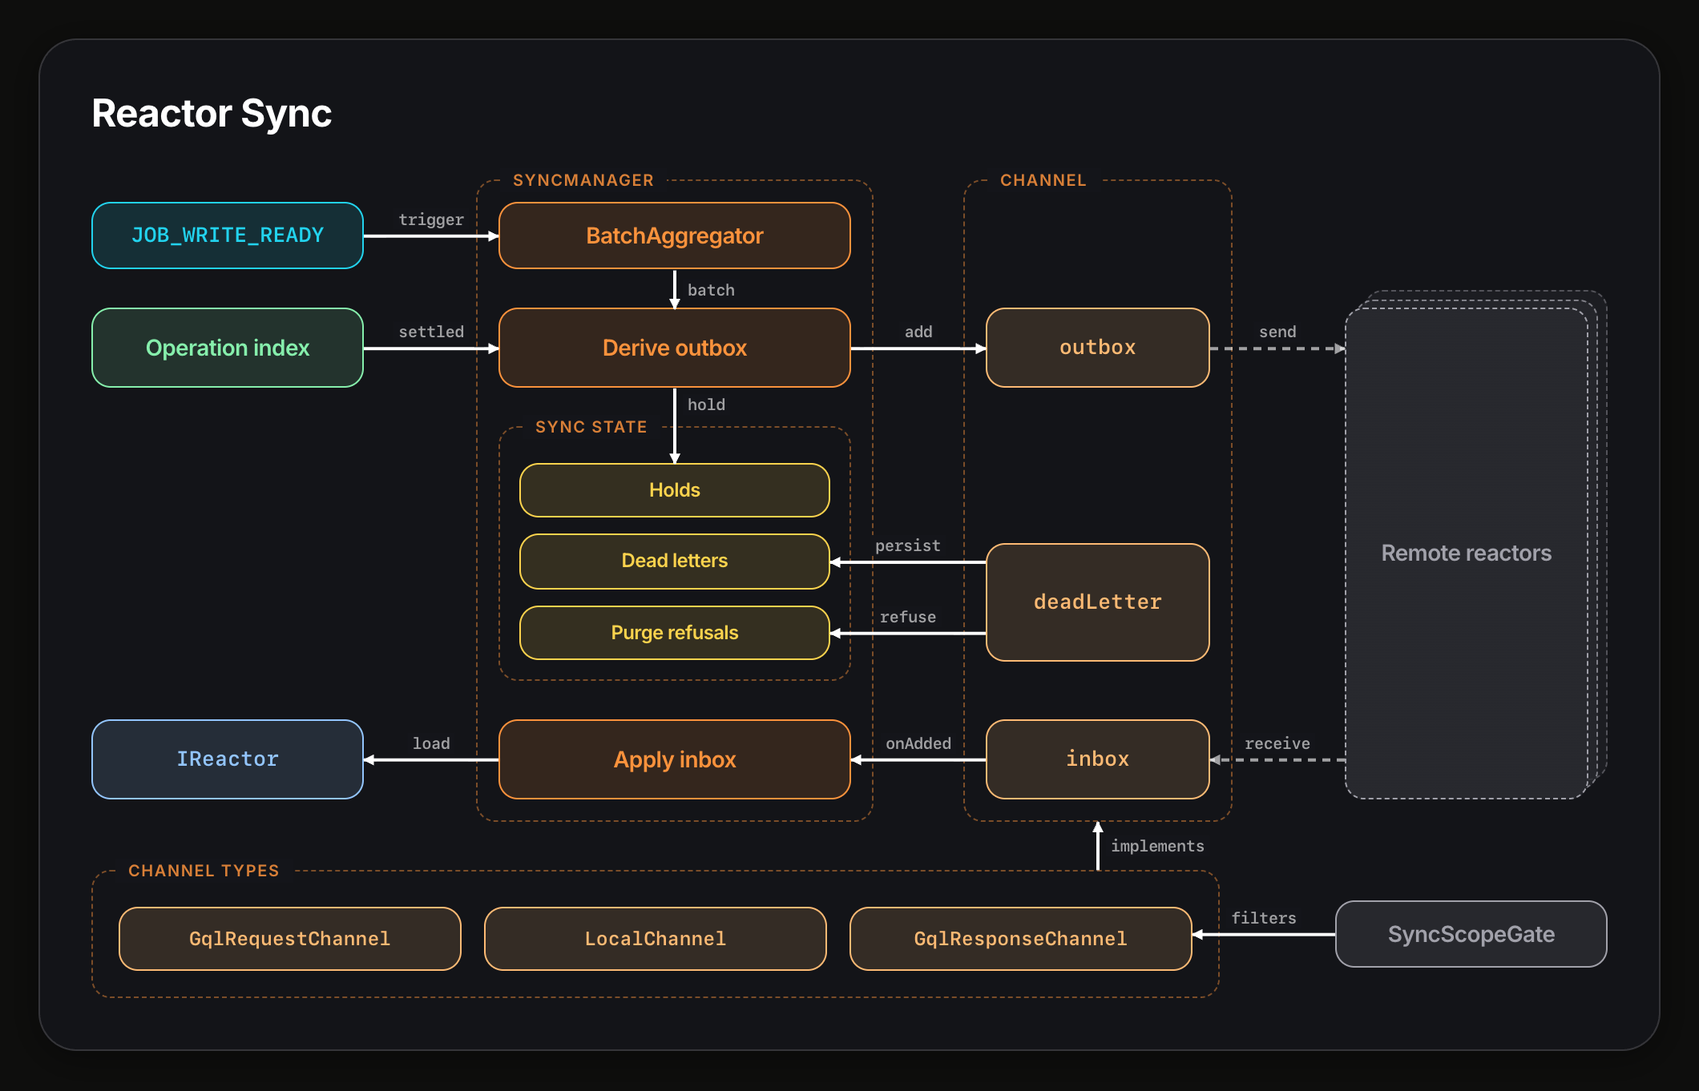
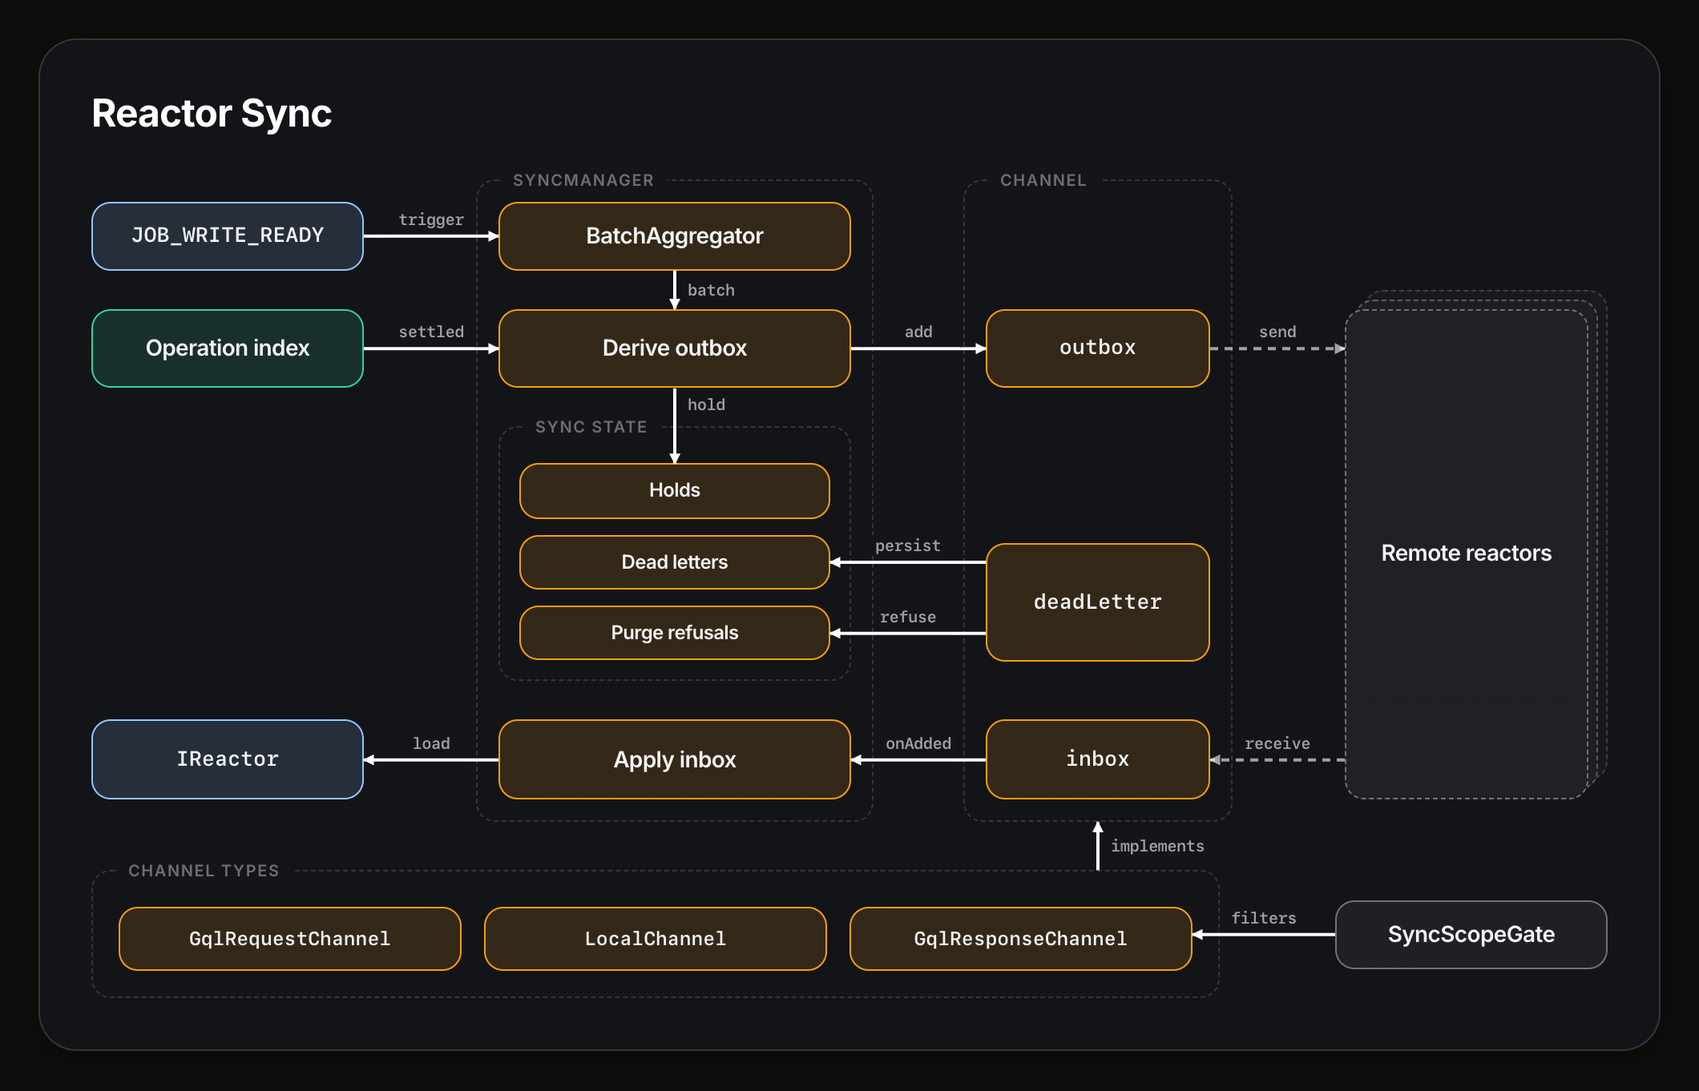
reactor diagrams: one colour per group, near-white text
Replace the family shades with seven fixed families (client,
reactor-core, write, read, sync, storage, external), each a single
border and faint fill laid over the card surface so stacked and
standalone boxes match. Every box in a group shares its family, box
text is near-white everywhere, and group frames are neutral again.

diff --git a/pages/reactor-components.html b/pages/reactor-components.html
@@ -260,10 +260,10 @@
       <div class="card-body">
         <div id="diagram" class="grid">
           <svg class="wires" id="wires"></svg>
-          <div class="grp-client frame-bg client-frame"><span class="group-label">ReactorClient</span></div>
-          <div class="grp-reactor frame-bg reactor-frame"><span class="group-label">Reactor</span></div>
+          <div class="frame-bg client-frame"><span class="group-label">ReactorClient</span></div>
+          <div class="frame-bg reactor-frame"><span class="group-label">Reactor</span></div>
 
-          <div class="box r1 fam-client-strong" id="clientbar" style="grid-column:3 / 8"><div class="box-title mono">IReactorClient</div></div>
+          <div class="box r1 fam-client" id="clientbar" style="grid-column:3 / 8"><div class="box-title mono">IReactorClient</div></div>
 
           <div class="fanout dashed r2 fam-external" id="remote" style="grid-column:1"><div class="box variant fam-external"><div class="box-title">Remote reactors</div></div></div>
           <div class="box r2 fam-client" id="signer" style="grid-column:3"><div class="box-title">Signer</div></div>
@@ -273,51 +273,51 @@
             <div class="box fam-client" id="awaiter"><div class="box-title">JobAwaiter</div></div>
           </div>
 
-          <div class="box r3 fam-reactor-facade" id="reactor" style="grid-column:3 / 8"><div class="box-title mono">IReactor</div></div>
+          <div class="box r3 fam-reactor-core" id="reactor" style="grid-column:3 / 8"><div class="box-title mono">IReactor</div></div>
 
-          <div class="grp-sync group col-stack r4" id="syncgroup" style="grid-column:1">
+          <div class="group col-stack r4" id="syncgroup" style="grid-column:1">
             <span class="group-label">Sync</span>
-            <div class="fanout fam-sync-channel" id="channels"><div class="box fam-sync-channel"><div class="box-title">Channels</div></div></div>
+            <div class="fanout fam-sync" id="channels"><div class="box fam-sync"><div class="box-title">Channels</div></div></div>
             <div class="box fam-sync" id="sync"><div class="box-title">SyncManager</div></div>
           </div>
 
           <div class="group col-stack r4" style="grid-column:3">
             <span class="group-label">Write side</span>
-            <div class="box fam-reactor-proc" id="queue"><div class="box-title">Queue</div></div>
-            <div class="fanout fam-reactor-proc" id="executor"><div class="box fam-reactor-proc"><div class="box-title">Job executors</div></div></div>
+            <div class="box fam-write" id="queue"><div class="box-title">Queue</div></div>
+            <div class="fanout fam-write" id="executor"><div class="box fam-write"><div class="box-title">Job executors</div></div></div>
           </div>
 
-          <div class="box bus r4 fam-reactor-bus" id="bus"><div class="box-title">Event<br>bus</div></div>
+          <div class="box bus r4 fam-reactor-core" id="bus"><div class="box-title">Event<br>bus</div></div>
 
           <div class="group col-stack r4" id="readside" style="grid-column:7">
             <span class="group-label">Read side</span>
             <div class="coord-row">
-              <div class="box fam-reactor-proc" id="coordinator"><div class="box-title">ReadModelCoordinator</div></div>
+              <div class="box fam-read" id="coordinator"><div class="box-title">ReadModelCoordinator</div></div>
               <div></div>
-              <div class="box fam-reactor-proc" id="catchup"><div class="box-title">CatchUpScheduler</div></div>
+              <div class="box fam-read" id="catchup"><div class="box-title">CatchUpScheduler</div></div>
             </div>
             <div class="group phase-group" id="pre">
               <span class="group-label">pre-ready</span>
               <div class="row three">
-                <div class="fanout fam-reactor-model" id="hostrm"><div class="box fam-reactor-model"><div class="box-title">Host read models</div></div></div>
-                <div class="box fam-reactor-model" id="indexer"><div class="box-title">DocumentIndexer</div></div>
-                <div class="box fam-reactor-model" id="docview"><div class="box-title">DocumentView</div></div>
+                <div class="fanout fam-read" id="hostrm"><div class="box fam-read"><div class="box-title">Host read models</div></div></div>
+                <div class="box fam-read" id="indexer"><div class="box-title">DocumentIndexer</div></div>
+                <div class="box fam-read" id="docview"><div class="box-title">DocumentView</div></div>
               </div>
             </div>
             <div class="group phase-group" id="post">
               <span class="group-label">post-ready</span>
               <div class="row two">
-                <div class="box fam-reactor-model" id="subs"><div class="box-title">Subscriptions</div></div>
-                <div class="fanout fam-reactor-model" id="processors"><div class="box fam-reactor-model"><div class="box-title">Processors</div></div></div>
+                <div class="box fam-read" id="subs"><div class="box-title">Subscriptions</div></div>
+                <div class="fanout fam-read" id="processors"><div class="box fam-read"><div class="box-title">Processors</div></div></div>
               </div>
             </div>
           </div>
 
-          <div class="grp-storage group storage r5" id="storage">
+          <div class="group storage r5" id="storage">
             <span class="group-label right">Storage</span>
-            <div class="box fam-storage-index" id="opindex" style="grid-column:1"><div class="box-title">Operation index</div></div>
-            <div class="box fam-storage-store" id="opstore" style="grid-column:3"><div class="box-title">Operation store</div></div>
-            <div class="box fam-storage-cache" id="caches" style="grid-column:5 / 8"><div class="box-title">Caches</div></div>
+            <div class="box fam-storage" id="opindex" style="grid-column:1"><div class="box-title">Operation index</div></div>
+            <div class="box fam-storage" id="opstore" style="grid-column:3"><div class="box-title">Operation store</div></div>
+            <div class="box fam-storage" id="caches" style="grid-column:5 / 8"><div class="box-title">Caches</div></div>
           </div>
         </div>
       </div>

diff --git a/pages/reactor-sync.html b/pages/reactor-sync.html
@@ -206,7 +206,7 @@
       GqlResponseChannel ...... channels/gql-res-channel.ts:23; reactor-api/src/graphql/reactor/resolvers.ts:2214, :1803
       SyncScopeGate · filters . decision/sync-scope-gate.ts:20, :41; reactor-api/src/services/sync-serving-gate.ts:40-48;
                                 applied reactor-api/src/graphql/reactor/resolvers.ts:1754-1767 (never inside packages/reactor)
-                                Coloured external grey: reactor-api applies it outside the reactor, so it is not in the client family
+                                Coloured external: reactor-api applies it outside the reactor
   -->
   <div class="frame">
     <div class="card">
@@ -217,35 +217,35 @@
         <svg class="wires" id="wires"></svg>
         <div class="diagram">
 
-          <div class="grp-sync frame-col" style="grid-column:2"><span class="group-label">SyncManager</span></div>
-          <div class="grp-sync frame-col" id="chan-frame" style="grid-column:3"><span class="group-label">Channel</span></div>
+          <div class="frame-col" style="grid-column:2"><span class="group-label">SyncManager</span></div>
+          <div class="frame-col" id="chan-frame" style="grid-column:3"><span class="group-label">Channel</span></div>
 
-          <div class="box fam-reactor-bus" id="ev" style="grid-column:1;grid-row:1"><div class="box-title mono">JOB_WRITE_READY</div></div>
+          <div class="box fam-reactor-core" id="ev" style="grid-column:1;grid-row:1"><div class="box-title mono">JOB_WRITE_READY</div></div>
           <div class="box fam-sync" id="agg" style="grid-column:2;grid-row:1"><div class="box-title">BatchAggregator</div></div>
 
-          <div class="box fam-storage-index" id="oi" style="grid-column:1;grid-row:2"><div class="box-title">Operation index</div></div>
+          <div class="box fam-storage" id="oi" style="grid-column:1;grid-row:2"><div class="box-title">Operation index</div></div>
           <div class="box fam-sync" id="derive" style="grid-column:2;grid-row:2"><div class="box-title">Derive outbox</div></div>
-          <div class="box mailbox fam-sync-channel" id="outbox" style="grid-column:3;grid-row:2"><div class="box-title mono">outbox</div></div>
+          <div class="box mailbox fam-sync" id="outbox" style="grid-column:3;grid-row:2"><div class="box-title mono">outbox</div></div>
           <div class="fanout dashed fam-external" id="remote" style="grid-column:4;grid-row:2 / 5;margin-top:0"><div class="box variant fam-external"><div class="box-title">Remote reactors</div></div></div>
 
-          <div class="grp-sync group state-grid" id="state" style="grid-column:2;grid-row:3">
+          <div class="group state-grid" id="state" style="grid-column:2;grid-row:3">
             <span class="group-label">Sync state</span>
-            <div class="box fam-sync-state" id="holds"><div class="box-title">Holds</div></div>
-            <div class="box fam-sync-state" id="deadletters"><div class="box-title">Dead letters</div></div>
-            <div class="box fam-sync-state" id="refusals"><div class="box-title">Purge refusals</div></div>
+            <div class="box fam-sync" id="holds"><div class="box-title">Holds</div></div>
+            <div class="box fam-sync" id="deadletters"><div class="box-title">Dead letters</div></div>
+            <div class="box fam-sync" id="refusals"><div class="box-title">Purge refusals</div></div>
           </div>
-          <div class="box mailbox fam-sync-channel" id="dead" style="grid-column:3;grid-row:3;align-self:end;margin-bottom:12px;height:74px"><div class="box-title mono">deadLetter</div></div>
+          <div class="box mailbox fam-sync" id="dead" style="grid-column:3;grid-row:3;align-self:end;margin-bottom:12px;height:74px"><div class="box-title mono">deadLetter</div></div>
 
-          <div class="box fam-reactor-facade" id="reactor" style="grid-column:1;grid-row:4"><div class="box-title mono">IReactor</div></div>
+          <div class="box fam-reactor-core" id="reactor" style="grid-column:1;grid-row:4"><div class="box-title mono">IReactor</div></div>
           <div class="box fam-sync" id="apply" style="grid-column:2;grid-row:4"><div class="box-title">Apply inbox</div></div>
-          <div class="box mailbox fam-sync-channel" id="inbox" style="grid-column:3;grid-row:4"><div class="box-title mono">inbox</div></div>
+          <div class="box mailbox fam-sync" id="inbox" style="grid-column:3;grid-row:4"><div class="box-title mono">inbox</div></div>
         </div>
         <div class="types-row" id="types-row">
-          <div class="grp-sync group types" id="types">
+          <div class="group types" id="types">
             <span class="group-label">Channel types</span>
-            <div class="box fam-sync-channel" id="gqlreq"><div class="box-title mono">GqlRequestChannel</div></div>
-            <div class="box fam-sync-channel" id="localch"><div class="box-title mono">LocalChannel</div></div>
-            <div class="box fam-sync-channel" id="gqlres"><div class="box-title mono">GqlResponseChannel</div></div>
+            <div class="box fam-sync" id="gqlreq"><div class="box-title mono">GqlRequestChannel</div></div>
+            <div class="box fam-sync" id="localch"><div class="box-title mono">LocalChannel</div></div>
+            <div class="box fam-sync" id="gqlres"><div class="box-title mono">GqlResponseChannel</div></div>
           </div>
           <div class="box fam-external" id="gate"><div class="box-title">SyncScopeGate</div></div>
         </div>

diff --git a/pages/reactor-write-path.html b/pages/reactor-write-path.html
@@ -215,38 +215,38 @@
           <svg class="wires" id="wires"></svg>
 
           <div class="entry">
-            <div class="box fam-client-strong" id="p-client"><div class="box-title mono">IReactorClient</div></div>
+            <div class="box fam-client" id="p-client"><div class="box-title mono">IReactorClient</div></div>
             <div class="box fam-sync" id="p-sync"><div class="box-title">SyncManager</div></div>
-            <div class="box fam-reactor-proc" id="p-trigger"><div class="box-title">GroupReevaluationTrigger</div></div>
-            <div class="box fam-reactor-proc" id="p-purge"><div class="box-title">DocumentPurgeService</div></div>
-            <div class="box wide fam-reactor-facade" id="reactor"><div class="box-title mono">IReactor</div></div>
-            <div class="box wide fam-reactor-proc" id="queue"><div class="box-title">Queue</div></div>
+            <div class="box fam-reactor-core" id="p-trigger"><div class="box-title">GroupReevaluationTrigger</div></div>
+            <div class="box fam-reactor-core" id="p-purge"><div class="box-title">DocumentPurgeService</div></div>
+            <div class="box wide fam-reactor-core" id="reactor"><div class="box-title mono">IReactor</div></div>
+            <div class="box wide fam-write" id="queue"><div class="box-title">Queue</div></div>
           </div>
 
-          <div class="grp-reactor group" id="exec-group">
+          <div class="group" id="exec-group">
             <span class="group-label right">Job executor · one transaction</span>
             <div class="exec">
-              <div class="box step fam-reactor-proc" id="s1"><div class="box-title">Lock</div></div>
-              <div class="box step fam-reactor-proc" id="s2"><div class="box-title">Admit signatures</div></div>
-              <div class="box outcome fam-external" id="o2"><div class="box-title">Refused</div></div>
-              <div class="box step fam-reactor-proc" id="s3"><div class="box-title">Decide authorization</div></div>
-              <div class="box outcome fam-external" id="o3"><div class="box-title">Denied</div></div>
-              <div class="box step fam-reactor-proc" id="s4"><div class="box-title">Load and reduce</div></div>
-              <div class="box step fam-reactor-proc" id="s5"><div class="box-title">Commit</div></div>
+              <div class="box step fam-write" id="s1"><div class="box-title">Lock</div></div>
+              <div class="box step fam-write" id="s2"><div class="box-title">Admit signatures</div></div>
+              <div class="box outcome fam-write" id="o2"><div class="box-title">Refused</div></div>
+              <div class="box step fam-write" id="s3"><div class="box-title">Decide authorization</div></div>
+              <div class="box outcome fam-write" id="o3"><div class="box-title">Denied</div></div>
+              <div class="box step fam-write" id="s4"><div class="box-title">Load and reduce</div></div>
+              <div class="box step fam-write" id="s5"><div class="box-title">Commit</div></div>
             </div>
           </div>
 
-          <div class="box event fam-reactor-bus" id="ev-write"><div class="box-title mono">JOB_WRITE_READY</div></div>
+          <div class="box event fam-reactor-core" id="ev-write"><div class="box-title mono">JOB_WRITE_READY</div></div>
 
-          <div class="grp-reactor group" id="read-group">
+          <div class="group" id="read-group">
             <span class="group-label">ReadModelCoordinator</span>
             <div class="readside">
-              <div class="box s2 fam-reactor-model" id="r-view"><div class="box-title">DocumentView</div></div>
-              <div class="box s2 fam-reactor-model" id="r-index"><div class="box-title">DocumentIndexer</div></div>
-              <div class="fanout s2 fam-reactor-model" id="r-host"><div class="box fam-reactor-model"><div class="box-title">Host read models</div></div></div>
-              <div class="box event full fam-reactor-bus" id="ev-read"><div class="box-title mono">JOB_READ_READY</div></div>
-              <div class="box s3 fam-reactor-model" id="r-subs"><div class="box-title">Subscriptions</div></div>
-              <div class="fanout s3 fam-reactor-model" id="r-proc"><div class="box fam-reactor-model"><div class="box-title">Processors</div></div></div>
+              <div class="box s2 fam-read" id="r-view"><div class="box-title">DocumentView</div></div>
+              <div class="box s2 fam-read" id="r-index"><div class="box-title">DocumentIndexer</div></div>
+              <div class="fanout s2 fam-read" id="r-host"><div class="box fam-read"><div class="box-title">Host read models</div></div></div>
+              <div class="box event full fam-read" id="ev-read"><div class="box-title mono">JOB_READ_READY</div></div>
+              <div class="box s3 fam-read" id="r-subs"><div class="box-title">Subscriptions</div></div>
+              <div class="fanout s3 fam-read" id="r-proc"><div class="box fam-read"><div class="box-title">Processors</div></div></div>
             </div>
           </div>
         </div>

diff --git a/css/components.css b/css/components.css
@@ -426,41 +426,27 @@
 
 /* ========================================
    Subsystem colour families
-   Put .fam-<family> on a .box (and on a .fanout wrapper and its front box).
-   Put .grp-<family> on a dashed group or frame to tint its border and label.
-   Tokens live in tokens.css. Older pages keep using .accent-*.
+   Put .fam-<family> on a .box, or on a .fanout wrapper and its front box.
+   Every box in a family shares one border and one fill; text stays
+   near-white. Tokens live in tokens.css. Older pages keep using .accent-*.
    ======================================== */
 
-.fam-client-strong   { --fam: var(--family-client-strong); }
-.fam-client          { --fam: var(--family-client); }
-.fam-reactor-facade  { --fam: var(--family-reactor-facade); }
-.fam-reactor-proc    { --fam: var(--family-reactor-proc); }
-.fam-reactor-bus     { --fam: var(--family-reactor-bus); }
-.fam-reactor-model   { --fam: var(--family-reactor-model); }
-.fam-storage-index   { --fam: var(--family-storage-index); }
-.fam-storage-store   { --fam: var(--family-storage-store); }
-.fam-storage-cache   { --fam: var(--family-storage-cache); }
-.fam-sync            { --fam: var(--family-sync); }
-.fam-sync-channel    { --fam: var(--family-sync-channel); }
-.fam-sync-state      { --fam: var(--family-sync-state); }
-.fam-external        { --fam: var(--family-external); }
+.fam-client       { --fam-border: var(--family-client-border);       --fam-fill: var(--family-client-fill); }
+.fam-reactor-core { --fam-border: var(--family-reactor-core-border); --fam-fill: var(--family-reactor-core-fill); }
+.fam-write        { --fam-border: var(--family-write-border);        --fam-fill: var(--family-write-fill); }
+.fam-read         { --fam-border: var(--family-read-border);         --fam-fill: var(--family-read-fill); }
+.fam-sync         { --fam-border: var(--family-sync-border);         --fam-fill: var(--family-sync-fill); }
+.fam-storage      { --fam-border: var(--family-storage-border);      --fam-fill: var(--family-storage-fill); }
+.fam-external     { --fam-border: var(--family-external-border);     --fam-fill: var(--family-external-fill); }
 
-.box[class*="fam-"] {
-  border-color: var(--fam);
-  color: var(--fam);
-  background: color-mix(in srgb, var(--fam) 14%, transparent);
+/* The fill is laid over the card surface, so a box reads the same whether
+   it stands alone or fronts a .fanout stack (which must be opaque). */
+.box.box[class*="fam-"] {
+  border-color: var(--fam-border);
+  background: linear-gradient(var(--fam-fill), var(--fam-fill)), var(--bg-surface);
+  color: var(--family-text);
 }
-.box.variant[class*="fam-"] { background: transparent; }
 .fanout[class*="fam-"] {
-  --fanout-line: var(--fam);
-  --fanout-fill: color-mix(in srgb, var(--fam) 14%, transparent);
+  --fanout-line: var(--fam-border);
+  --fanout-fill: var(--fam-fill);
 }
-
-.grp-client  { --grp: var(--family-client); }
-.grp-reactor { --grp: var(--family-reactor-facade); }
-.grp-storage { --grp: var(--family-storage-store); }
-.grp-sync    { --grp: var(--family-sync); }
-[class*="grp-"].group,
-[class*="grp-"].frame-bg,
-[class*="grp-"].frame-col { border-color: color-mix(in srgb, var(--grp) 45%, transparent); }
-[class*="grp-"] > .group-label { color: color-mix(in srgb, var(--grp) 85%, transparent); }

diff --git a/css/tokens.css b/css/tokens.css
@@ -59,31 +59,15 @@
   --shadow-elevated: 0 8px 32px rgba(0, 0, 0, 0.6);
 }
 
-/* Subsystem colour families — one hue per subsystem, shades for kinds of
-   component. Shared by the reactor diagrams and any diagram that stitches
-   them together (see .fam-* in components.css). Text contrast on the dark
-   card with a 14% tint is at least 5:1 for every shade. */
+/* Subsystem colour families: one border and one faint fill per subsystem.
+   Box text stays near-white; see .fam-* in components.css. */
 :root {
-  /* ReactorClient: purples */
-  --family-client-strong: #d8b4fe;   /* IReactorClient facade */
-  --family-client:        #c084fc;   /* client parts */
-
-  /* Reactor: blues */
-  --family-reactor-facade: #93c5fd;  /* IReactor */
-  --family-reactor-proc:   #5596f8;  /* processing: queue, executors, coordinator, scheduler */
-  --family-reactor-bus:    #22d3ee;  /* event bus and its events */
-  --family-reactor-model:  #7dd3fc;  /* read models */
-
-  /* Storage: greens */
-  --family-storage-index: #86efac;
-  --family-storage-store: #4ade80;
-  --family-storage-cache: #34d399;
-
-  /* Sync: oranges */
-  --family-sync:         #fb923c;    /* sync manager and its steps */
-  --family-sync-channel: #fdba74;    /* channels and mailboxes */
-  --family-sync-state:   #fcd34d;    /* persisted sync state */
-
-  /* Outside the reactor */
-  --family-external: #a1a1aa;
+  --family-text: #f4f4f5;
+  --family-client-border:       #a78bfa;  --family-client-fill:       rgba(167, 139, 250, 0.14);
+  --family-reactor-core-border: #93c5fd;  --family-reactor-core-fill: rgba(147, 197, 253, 0.14);
+  --family-write-border:        #60a5fa;  --family-write-fill:        rgba(96, 165, 250, 0.16);
+  --family-read-border:         #3b82f6;  --family-read-fill:         rgba(59, 130, 246, 0.22);
+  --family-sync-border:         #f59e0b;  --family-sync-fill:         rgba(245, 158, 11, 0.14);
+  --family-storage-border:      #34d399;  --family-storage-fill:      rgba(52, 211, 153, 0.14);
+  --family-external-border:     #71717a;  --family-external-fill:     rgba(113, 113, 122, 0.12);
 }
